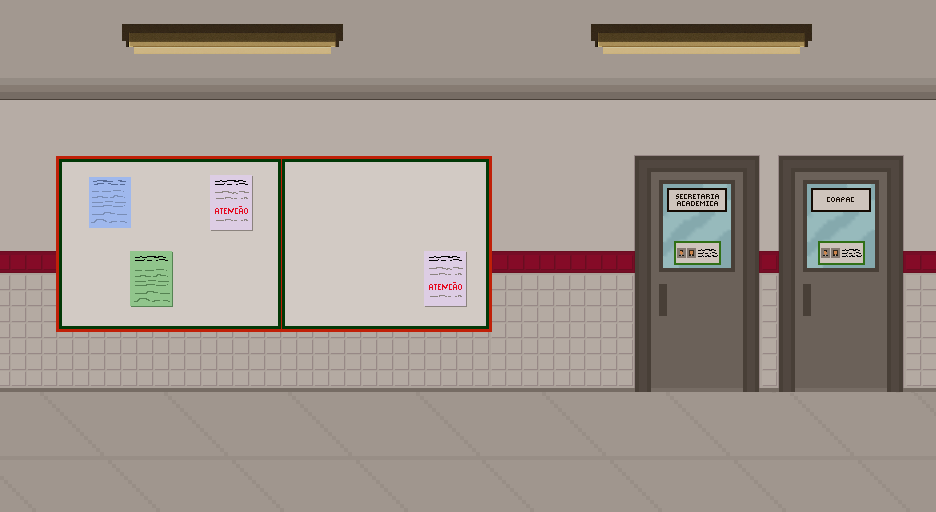
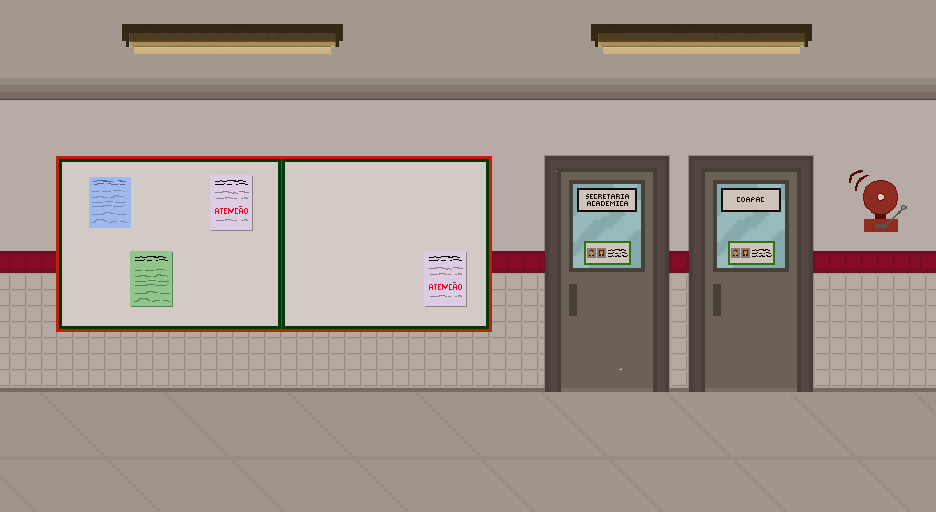
Fiz correção na funcionalidade do tempo  do alrme e onde ele é desenhado e corrigi algumas artes

Changed region(s): [[0.5577, 0.2812, 0.9915, 0.7812]]

diff --git a/conteúdo/TheTeacherDisappearence/cenarios.py b/conteúdo/TheTeacherDisappearence/cenarios.py
@@ -66,7 +66,7 @@ sair_sala = False
 #alarme
 alarme_ativo = False
 tempo_inicio_alarme = 0
-duracao_alarme = 30000 
+duracao_alarme = 10000 
 som_alarme = None
 
 class Cenario():
@@ -181,8 +181,8 @@ class Cenario():
         agora_timer = pygame.time.get_ticks() 
         global alarme_ativo, tempo_inicio_alarme, som_alarme #chama as variáveis que estão fora, não criando novas dentro da classe
         if player.rect.colliderect(self.alarme):
-            self.tela.blit(hud.ativar_alarme, (60,20))
-            self.tela.blit(hud.tecla_e, (20, 20))
+            self.tela.blit(hud.ativar_alarme, (90,20))
+            self.tela.blit(hud.tecla_e, (50, 20))
             if self.teclas[pygame.K_e]:
                 if not alarme_ativo:
                     alarme_ativo = True
@@ -373,8 +373,7 @@ class CorredorCOAPAC2(Cenario):
         super().__init__()
         self.caminho = os.path.join(os.path.dirname(__file__), "data", "images", "corredores", "CorredorCoapac2.png")
         pygame.mouse.set_cursor(pygame.SYSTEM_CURSOR_ARROW)
-        self.alarme = pygame.Rect(950,200,100,340)
-
+        
     def mudar_tela(self):
         if player.ultima_direcao == "esquerda" and player.rect.left <= 0:
             return CorredorCOAPAC1()
@@ -387,6 +386,8 @@ class CorredorCOAPAC3(Cenario):
         super().__init__()
         self.caminho = os.path.join(os.path.dirname(__file__), "data", "images", "corredores", "CorredorCoapac3.png")
         pygame.mouse.set_cursor(pygame.SYSTEM_CURSOR_ARROW)
+       
+        self.alarme = pygame.Rect(950, 200, 100, 340)
         
         if not carrinho.coletado:
             self.items.add(carrinho)
@@ -396,7 +397,8 @@ class CorredorCOAPAC3(Cenario):
             self.trancada = True
         else:
             self.trancada = False
-        self.porta = pygame.Rect(1050,200,100,340)
+            
+        self.porta = pygame.Rect(1050, 200, 100, 340)
 
     def mudar_tela(self):
         if self.entrar_sala:
